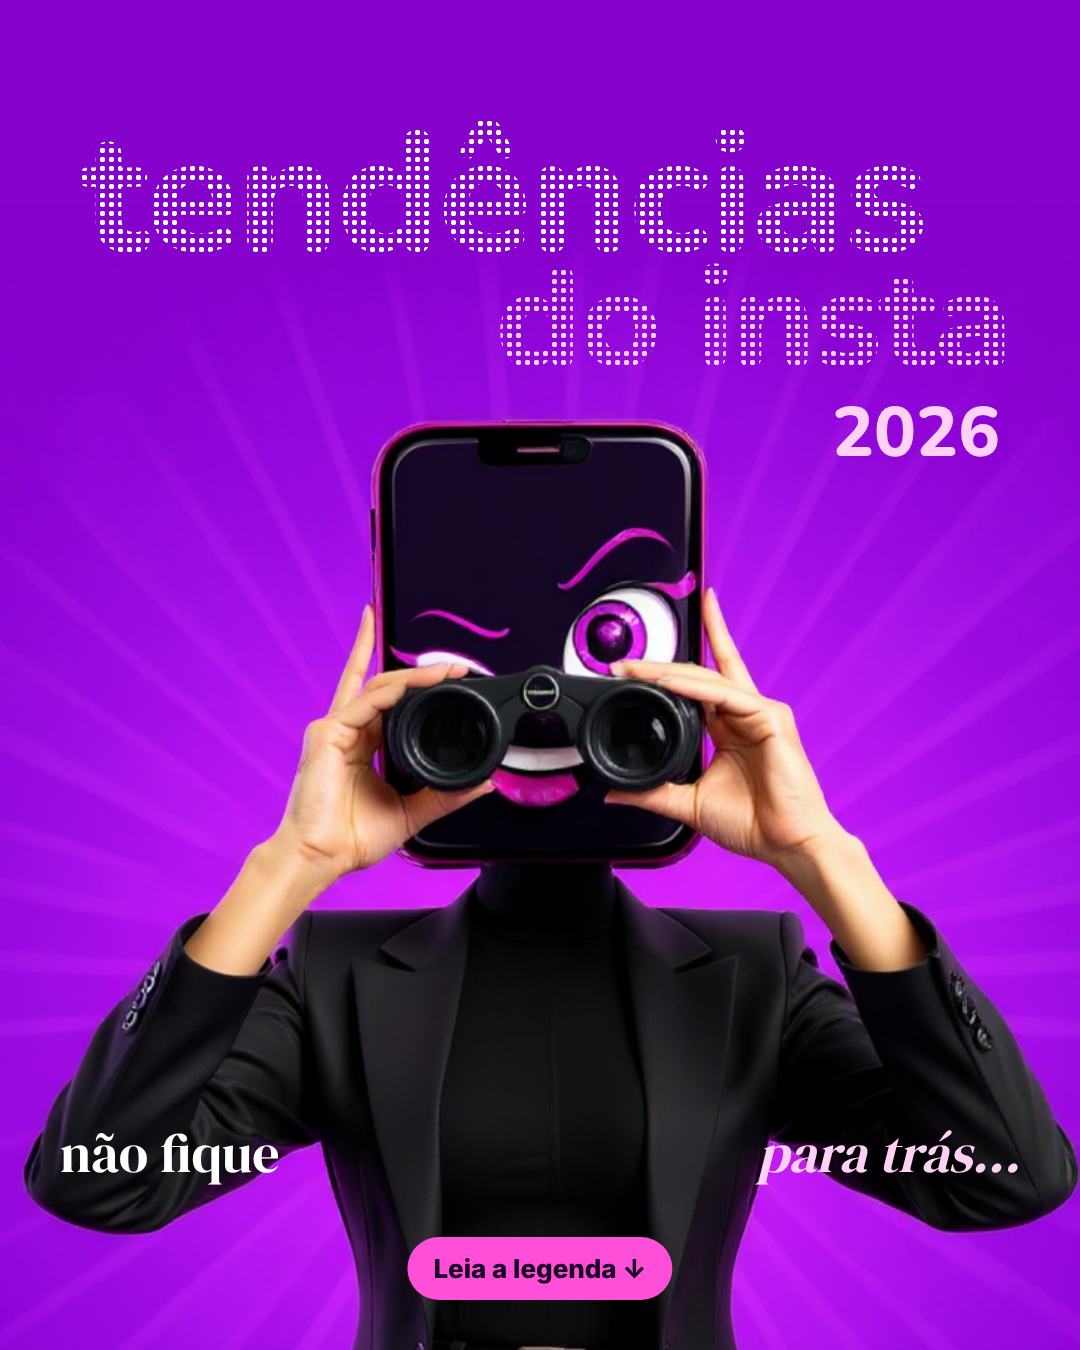
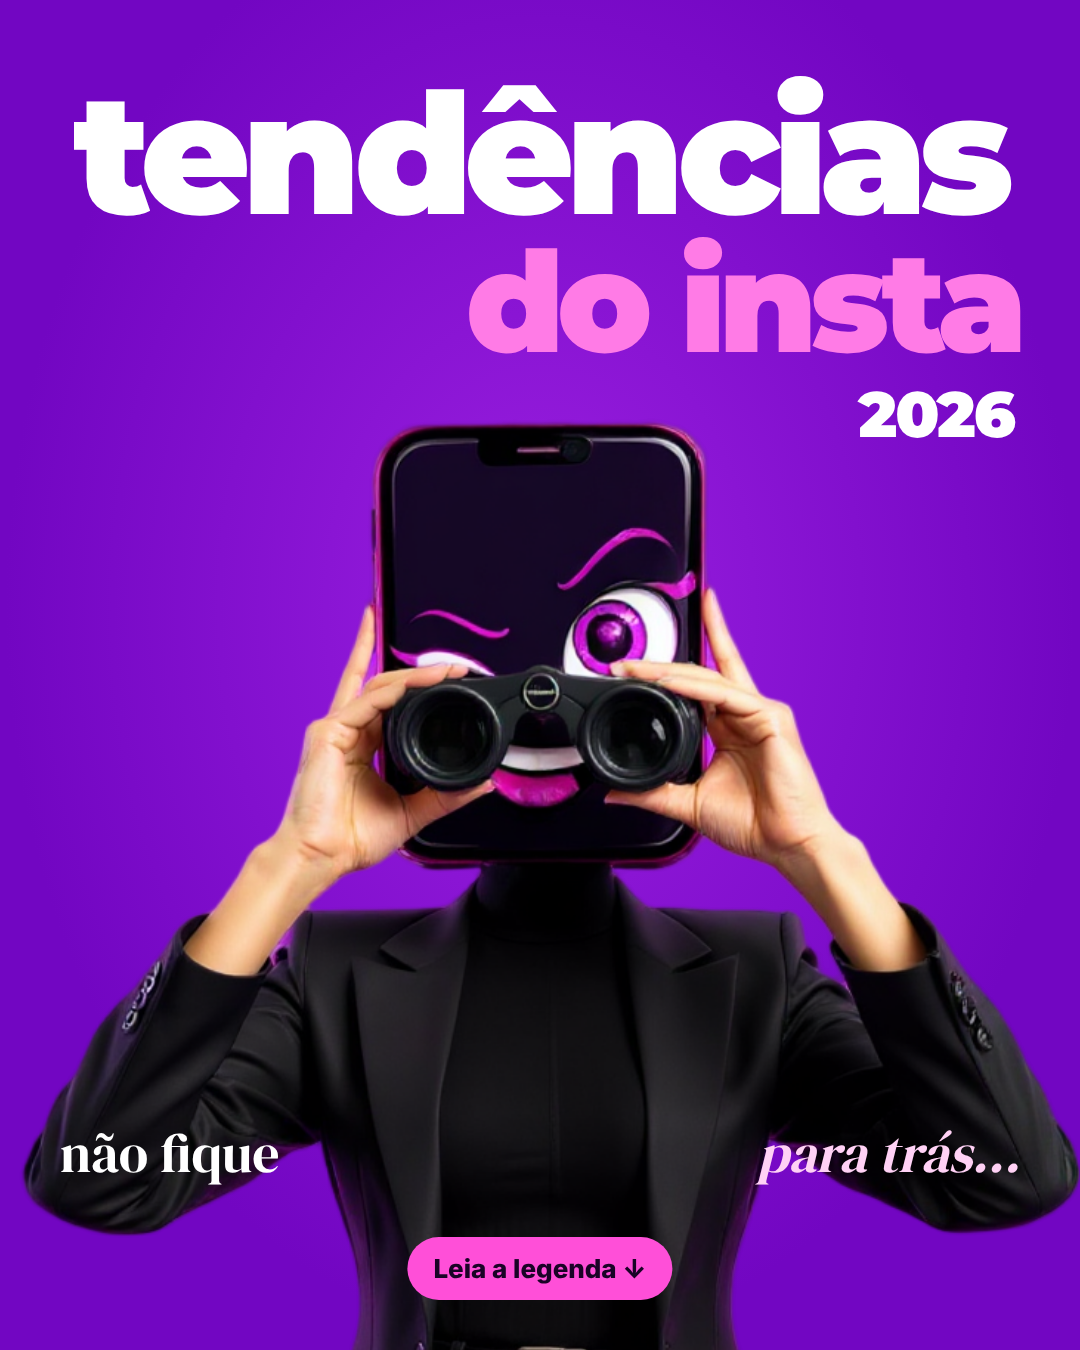
Estático 16: título em fonte chamativa e fundo liso
Claude-Session: https://claude.ai/code/session_017mkQW4f9RfZB1iSbiGkvms

diff --git a/banco/tpl-estatico/layout-16.html b/banco/tpl-estatico/layout-16.html
@@ -1,4 +1,4 @@
-<html><head><style>
+<html><head><style>@font-face{font-family:M9;src:url(file:///home/user/producaodeconteudo/public/fonts/montserrat-latin-900-normal.woff2)}
 @font-face{font-family:A;src:url(file:///home/user/producaodeconteudo/public/fonts/anton-latin-400-normal.woff2)}
 @font-face{font-family:N;src:url(file:///home/user/producaodeconteudo/public/fonts/nunito-latin-800-normal.woff2)}
 @font-face{font-family:D;src:url(file:///home/user/producaodeconteudo/public/fonts/dm-serif-display-latin-400-normal.woff2)}
@@ -11,14 +11,14 @@ body{margin:0}#s{width:1080px;height:1350px;position:relative;overflow:hidden}
 .bg{position:absolute;inset:0;width:100%;height:100%;object-fit:cover}
 .cta{position:absolute;font:800 30px I8;padding:16px 26px;border-radius:40px;white-space:nowrap}
 
-#s{background:#8603CC}
+#s{background:radial-gradient(ellipse at 50% 45%,#9a1fe0,#7206c2 70%)}
 .dot{background:radial-gradient(circle,currentColor 42%,transparent 46%) 0 0/9px 9px;-webkit-background-clip:text;background-clip:text;-webkit-text-fill-color:transparent;font-family:N;letter-spacing:-2px}
-.t1{position:absolute;left:80px;top:110px;font-size:170px;line-height:1;color:#ffffff}
-.t2{position:absolute;right:70px;top:250px;font-size:140px;line-height:1;color:#ffd1f5}
-.t3{position:absolute;right:80px;top:385px;font:800 70px N;color:#ffd1f5}
+.t1{position:absolute;left:0;right:0;text-align:center;top:70px;font:900 168px/1 M9;letter-spacing:-8px;color:#ffffff}
+.t2{position:absolute;right:60px;top:232px;font:900 140px/1 M9;letter-spacing:-7px;color:#ff7be6}
+.t3{position:absolute;right:66px;top:375px;font:900 64px M9;letter-spacing:-2px;color:#fff}
 .l{position:absolute;left:60px;bottom:160px;font:400 54px D;color:#fff}
 .r{position:absolute;right:60px;bottom:160px;font:400 54px D;font-style:italic;color:#ffd1f5}
 .cta{left:50%;transform:translateX(-50%);bottom:50px;font-size:26px;background:#ff4fd8;color:#1a0326}
-</style></head><body><div id=s><img src="c16b.png" style="position:absolute;left:-110px;top:150px;width:1300px;-webkit-mask-image:linear-gradient(transparent,#000 160px)">
-<div class="t1 dot">tendências</div><div class="t2 dot">do insta</div><div class=t3>2026</div>
+</style></head><body><div id=s><img src="c16b-cut.png" style="position:absolute;left:-110px;top:150px;width:1300px">
+<div class=t1>tendências</div><div class=t2>do insta</div><div class=t3>2026</div>
 <div class=l>não fique</div><div class=r>para trás...</div><div class=cta>Leia a legenda ↓</div></div></body></html>

diff --git a/conhecimento/agentes/designer/22-feed-estatico-quebra-de-padrao.md b/conhecimento/agentes/designer/22-feed-estatico-quebra-de-padrao.md
@@ -120,3 +120,4 @@ Arquivos em `banco/tpl-estatico/` (`ref-N`, `layout-N.html`, `teste-N.png`).
 - 4ª rodada: 29 coroa pequena encaixada; 30 APROVADA; 32 dinheiro em 3D (maços e moedas) no lugar das notas planas, listras douradas; 33 sem a pessoa original atrás do mascote (nunca deixar resto da pessoa da referência).
 - 5ª rodada: 29 e 33 APROVADAS; 32 um elemento 3D grande e centralizado (moeda) vale mais que vários pequenos; dinheiro em dólar 3D, nada de barra de ouro.
 - 32 DESCARTADA pelo dono. Estático fechado: 18 aprovados (14 a 25, 27 a 31, 33); descartados 26 e 32.
+- Pente fino (19/11/2026) · 16: título em fonte chamativa (Montserrat 900, branco + rosa), nada de letra pontilhada; fundo liso (degradê suave da cor da marca, sem raios de luz): mascote recortado sobre o fundo.
